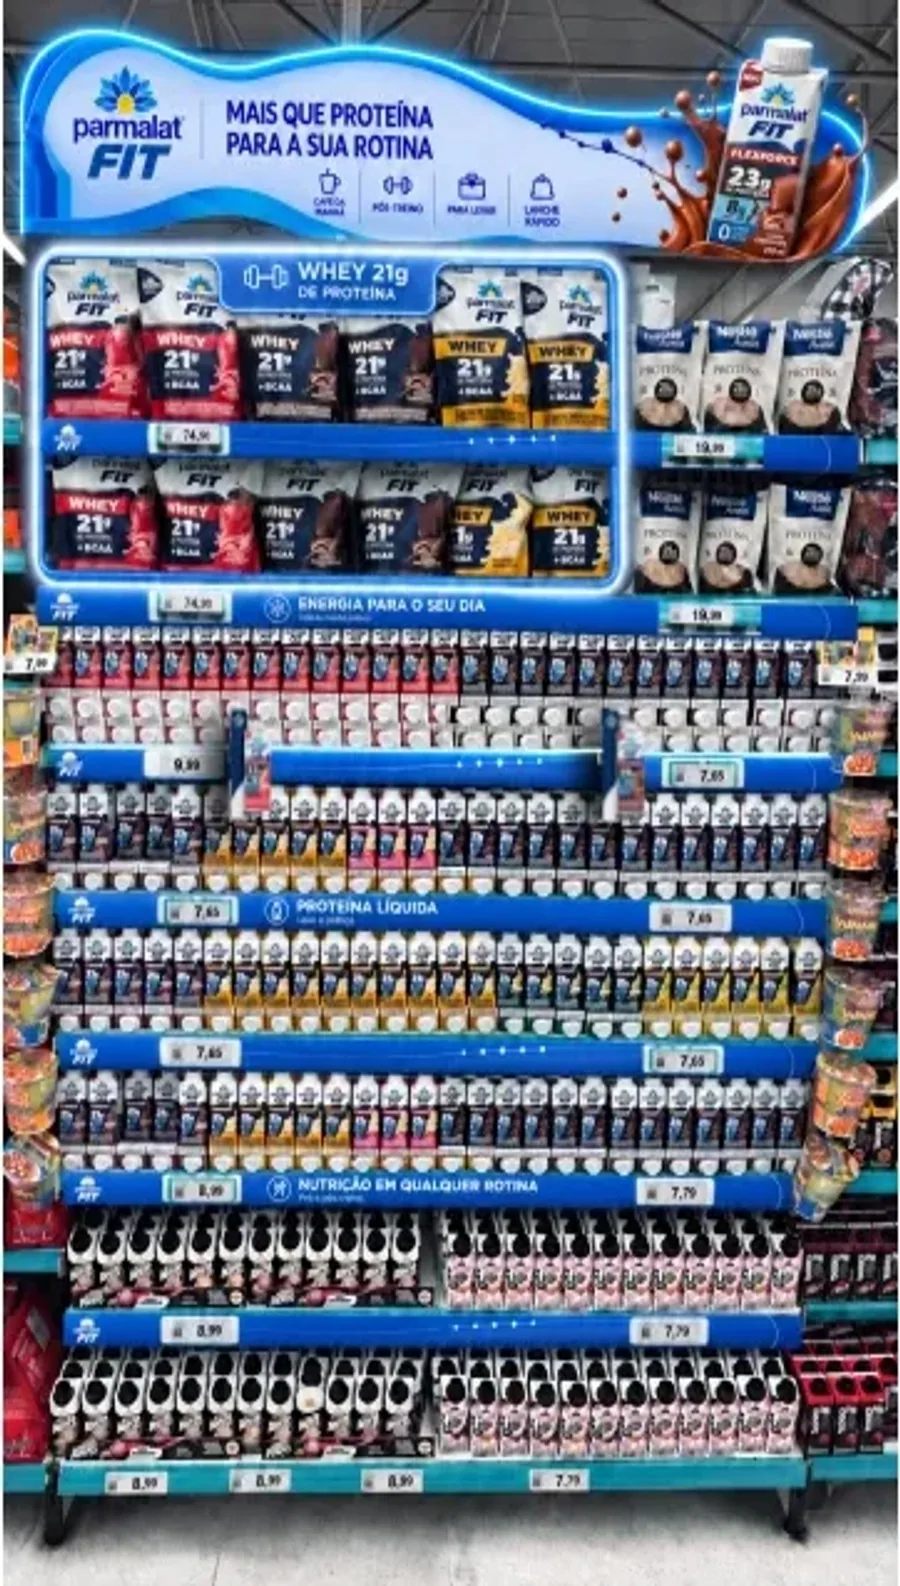
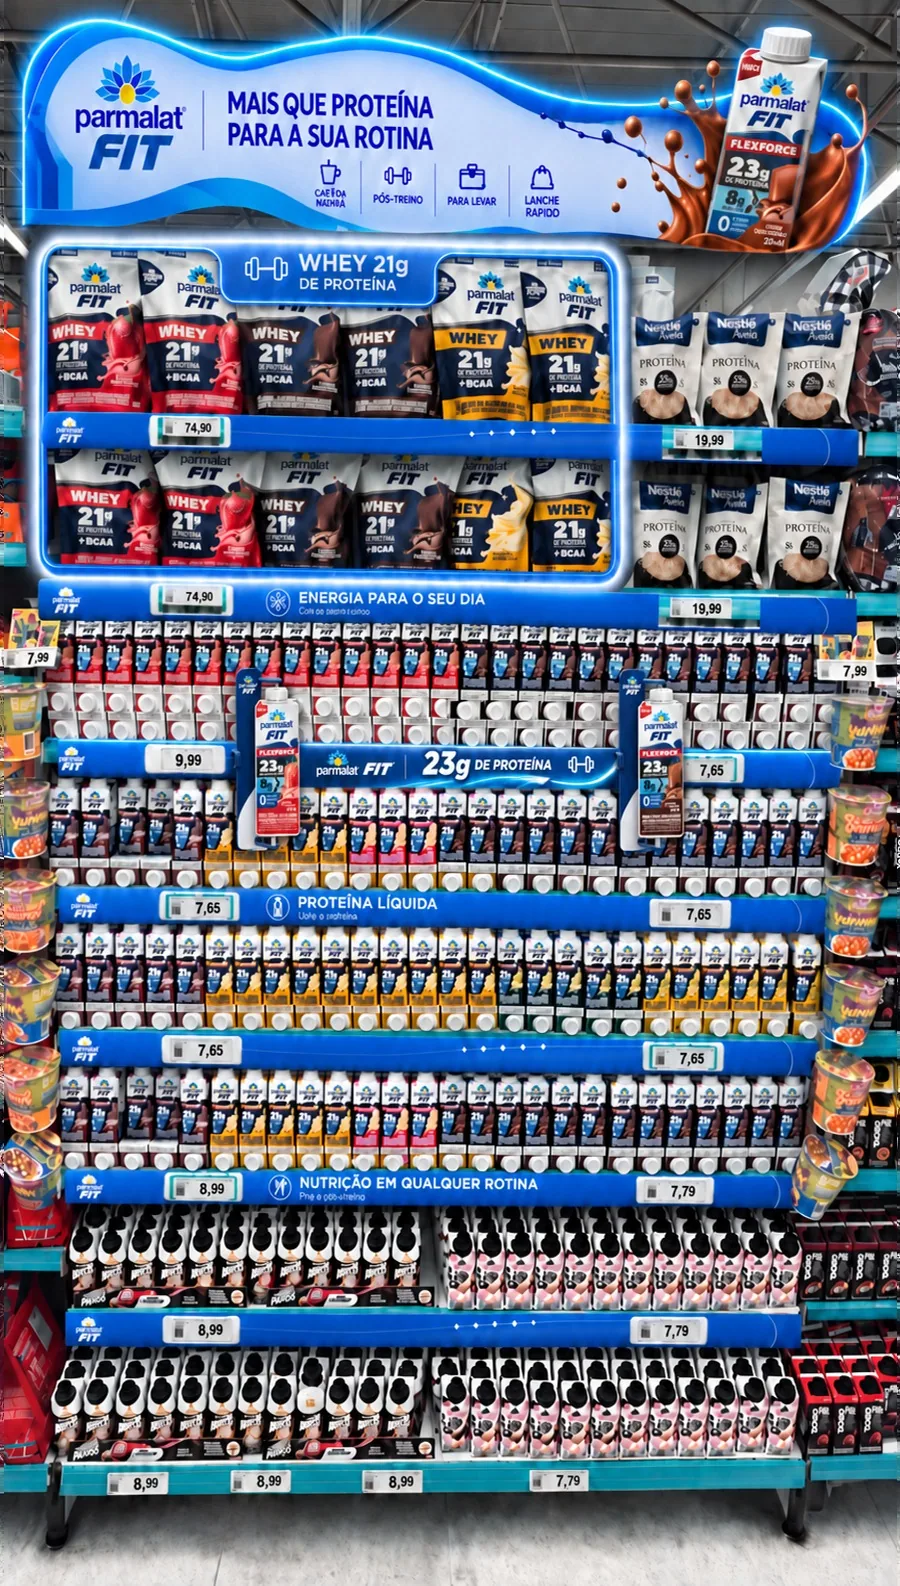
Link 3: gôndola seca com a simulação e a prancha novas

diff --git a/projeto-visual/index.html b/projeto-visual/index.html
@@ -176,27 +176,28 @@
         <div class="side">
           <div class="kit rv" style="--d:3">
             <p class="lbl">As peças</p>
-            <p class="sum">A arte aprovada, agora com luz e os stoppers do Flexforce na prateleira.</p>
+            <p class="sum">Mais que proteína para a sua rotina: testeira ondulada iluminada, moldura de luz no whey, réguas por benefício e stoppers do Flexforce.</p>
           </div>
           <div class="mesa rv" style="--d:3">
             <div class="mi">
-            <figure class="pc" style="--w:190;--h:48.2"><button type="button" class="pz" data-zoom="../assets/img/pv/seca/n-1-testeira.webp" data-gallery="seca" data-caption="1 · Testeira superior com LED|Caixa com face em acrílico e fita de LED"><img src="../assets/img/pv/seca/n-1-testeira.webp" alt="Testeira superior com LED"></button><figcaption><b>1</b><span>Testeira superior com LED</span><em>1 un.</em></figcaption></figure>
-            <div class="row"><figure class="pc" style="--w:120;--h:35.7"><button type="button" class="pz" data-zoom="../assets/img/pv/seca/p-2-moldura.webp" data-gallery="seca" data-caption="2 · Moldura com LED|PS recortado e fita de LED"><img src="../assets/img/pv/seca/p-2-moldura.webp" alt="Moldura com LED"></button><figcaption><b>2</b><span>Moldura com LED</span><em>1 un.</em></figcaption></figure><figure class="pc" style="--w:60;--h:40"><div class="duo"><button type="button" class="pz" data-zoom="../assets/img/pv/seca/p-4-stopper-morango.webp" data-gallery="seca" data-caption="4 · Morango|Stopper preso na prateleira, com a embalagem do produto"><img src="../assets/img/pv/seca/p-4-stopper-morango.webp" alt="Morango" style="--w:27.5;--h:40"></button><button type="button" class="pz" data-zoom="../assets/img/pv/seca/p-4-stopper-chocolate.webp" data-gallery="seca" data-caption="4 · Chocolate|Stopper preso na prateleira, com a embalagem do produto"><img src="../assets/img/pv/seca/p-4-stopper-chocolate.webp" alt="Chocolate" style="--w:27.7;--h:40"></button></div><figcaption><b>4</b><span>Stoppers Flexforce</span><em>2 un., morango e chocolate</em></figcaption></figure></div>
-            <figure class="pc" style="--w:181;--h:46.2"><div class="stk"><button type="button" class="pz" data-zoom="../assets/img/pv/seca/p-3-regua-1.webp" data-gallery="seca" data-caption="3 · Régua gráfica|PS impresso, com fita de LED na borda"><img src="../assets/img/pv/seca/p-3-regua-1.webp" alt="Régua gráfica" style="--w:181;--h:5.3"></button><button type="button" class="pz" data-zoom="../assets/img/pv/seca/p-3-regua-2.webp" data-gallery="seca" data-caption="3 · Energia para o seu dia|PS impresso, com fita de LED na borda"><img src="../assets/img/pv/seca/p-3-regua-2.webp" alt="Energia para o seu dia" style="--w:181;--h:5.5"></button><button type="button" class="pz" data-zoom="../assets/img/pv/seca/p-3-regua-3.webp" data-gallery="seca" data-caption="3 · Régua gráfica|PS impresso, com fita de LED na borda"><img src="../assets/img/pv/seca/p-3-regua-3.webp" alt="Régua gráfica" style="--w:181;--h:5.3"></button><button type="button" class="pz" data-zoom="../assets/img/pv/seca/p-3-regua-4.webp" data-gallery="seca" data-caption="3 · Proteína líquida|PS impresso, com fita de LED na borda"><img src="../assets/img/pv/seca/p-3-regua-4.webp" alt="Proteína líquida" style="--w:181;--h:5.4"></button><button type="button" class="pz" data-zoom="../assets/img/pv/seca/p-3-regua-5.webp" data-gallery="seca" data-caption="3 · Régua gráfica|PS impresso, com fita de LED na borda"><img src="../assets/img/pv/seca/p-3-regua-5.webp" alt="Régua gráfica" style="--w:181;--h:5.3"></button><button type="button" class="pz" data-zoom="../assets/img/pv/seca/p-3-regua-6.webp" data-gallery="seca" data-caption="3 · Nutrição em qualquer rotina|PS impresso, com fita de LED na borda"><img src="../assets/img/pv/seca/p-3-regua-6.webp" alt="Nutrição em qualquer rotina" style="--w:181;--h:5.4"></button><button type="button" class="pz" data-zoom="../assets/img/pv/seca/p-3-regua-7.webp" data-gallery="seca" data-caption="3 · Régua gráfica|PS impresso, com fita de LED na borda"><img src="../assets/img/pv/seca/p-3-regua-7.webp" alt="Régua gráfica" style="--w:181;--h:5.3"></button></div><figcaption><b>3</b><span>Réguas de gôndola</span><em>7 un., 3 com frase e 4 gráficas</em></figcaption></figure>
+            <figure class="pc" style="--w:190;--h:40.3"><button type="button" class="pz" data-zoom="../assets/img/pv/seca/p-1-testeira.webp" data-gallery="seca" data-caption="1 · Testeira superior ondulada iluminada|PS com recorte ondulado e iluminação"><img src="../assets/img/pv/seca/p-1-testeira.webp" alt="Testeira superior ondulada iluminada"></button><figcaption><b>1</b><span>Testeira superior ondulada iluminada</span><em>1 un.</em></figcaption></figure>
+            <div class="row"><figure class="pc" style="--w:120;--h:41.4"><button type="button" class="pz" data-zoom="../assets/img/pv/seca/p-2-moldura.webp" data-gallery="seca" data-caption="2 · Moldura luminosa para whey em pó|Moldura com LED em volta das duas prateleiras do whey"><img src="../assets/img/pv/seca/p-2-moldura.webp" alt="Moldura luminosa para whey em pó"></button><figcaption><b>2</b><span>Moldura luminosa para whey em pó</span><em>1 un.</em></figcaption></figure><figure class="pc" style="--w:28.5;--h:26.8"><div class="duo"><button type="button" class="pz" data-zoom="../assets/img/pv/seca/p-8-stopper-morango.webp" data-gallery="seca" data-caption="8 · Morango|Stopper giratório preso na prateleira, com a embalagem Flexforce, sabores morango e chocolate"><img src="../assets/img/pv/seca/p-8-stopper-morango.webp" alt="Morango" style="--w:13;--h:26.8"></button><button type="button" class="pz" data-zoom="../assets/img/pv/seca/p-8-stopper-chocolate.webp" data-gallery="seca" data-caption="8 · Chocolate|Stopper giratório preso na prateleira, com a embalagem Flexforce, sabores morango e chocolate"><img src="../assets/img/pv/seca/p-8-stopper-chocolate.webp" alt="Chocolate" style="--w:13.5;--h:26.8"></button></div><figcaption><b>8</b><span>Stoppers giratórios</span><em>2 un.</em></figcaption></figure></div>
+            <figure class="pc" style="--w:150;--h:67.2"><div class="stk"><button type="button" class="pz" data-zoom="../assets/img/pv/seca/p-3-regua-energia.webp" data-gallery="seca" data-caption="3 a 7 · Energia para o seu dia|PS impresso, no trilho de preço"><img src="../assets/img/pv/seca/p-3-regua-energia.webp" alt="3 a 7 · Energia para o seu dia" style="--w:150;--h:13.4"></button><button type="button" class="pz" data-zoom="../assets/img/pv/seca/p-4-regua-23g.webp" data-gallery="seca" data-caption="3 a 7 · 23 g de proteína|PS impresso, no trilho de preço"><img src="../assets/img/pv/seca/p-4-regua-23g.webp" alt="3 a 7 · 23 g de proteína" style="--w:150;--h:13.2"></button><button type="button" class="pz" data-zoom="../assets/img/pv/seca/p-5-regua-proteina.webp" data-gallery="seca" data-caption="3 a 7 · Proteína líquida|PS impresso, no trilho de preço"><img src="../assets/img/pv/seca/p-5-regua-proteina.webp" alt="3 a 7 · Proteína líquida" style="--w:150;--h:12.2"></button><button type="button" class="pz" data-zoom="../assets/img/pv/seca/p-6-regua-nutricao.webp" data-gallery="seca" data-caption="3 a 7 · Nutrição em qualquer rotina|PS impresso, no trilho de preço"><img src="../assets/img/pv/seca/p-6-regua-nutricao.webp" alt="3 a 7 · Nutrição em qualquer rotina" style="--w:150;--h:12.6"></button><button type="button" class="pz" data-zoom="../assets/img/pv/seca/p-7-regua-complementar.webp" data-gallery="seca" data-caption="3 a 7 · Régua complementar|PS impresso, no trilho de preço"><img src="../assets/img/pv/seca/p-7-regua-complementar.webp" alt="3 a 7 · Régua complementar" style="--w:150;--h:10.2"></button></div><figcaption><b>3 a 7</b><span>Réguas de gôndola</span><em>7 un.: 4 com frase e 3 complementares</em></figcaption></figure>
             </div>
           </div>
           <div class="how rv" style="--d:4">
             <p class="lbl">Como aplica</p>
-            <div class="hw">
-              <div class="mc"><i class="pg" data-pg="retro"></i><h3>Testeira com LED</h3><span class="pn">Peça 1</span></div>
-              <div class="mc"><i class="pg" data-pg="perfil"></i><h3>Fita de LED ilumina o produto</h3><span class="pn">Peças 2 e 3</span></div>
-              <div class="mc"><i class="pg" data-pg="trilho"></i><h3>Réguas no trilho e os stoppers na prateleira</h3><span class="pn">Peças 3 e 4</span></div>
+            <div class="hw q4">
+              <div class="mc"><i class="pg" data-pg="retro"></i><h3>Testeira iluminada no topo</h3><span class="pn">Peça 1</span></div>
+              <div class="mc"><i class="pg" data-pg="perfil"></i><h3>Moldura de LED em volta do whey</h3><span class="pn">Peça 2</span></div>
+              <div class="mc"><i class="pg" data-pg="trilho"></i><h3>Réguas no trilho de preço</h3><span class="pn">Peças 3 a 7</span></div>
+              <div class="mc"><i class="pg" data-pg="presilha"></i><h3>Stoppers presos na prateleira</h3><span class="pn">Peça 8</span></div>
             </div>
           </div>
         </div>
       </div>
     </div>
-    <aside class="notes" hidden><p>O projeto aprovado continua igual. Entram a luz e os stoppers do Flexforce, o novo de 23 g de proteína, presos na prateleira.</p></aside>
+    <aside class="notes" hidden><p>A testeira, a moldura e as réguas falam de proteína para cada momento do dia. Os stoppers giratórios destacam o Flexforce 23 g, o novo da linha. As réguas complementares, só com grafismos, ficam nas prateleiras sem frase.</p></aside>
   </section>
 
   <!-- ================================================================ 03 PONTA REFRIGERADA -->
